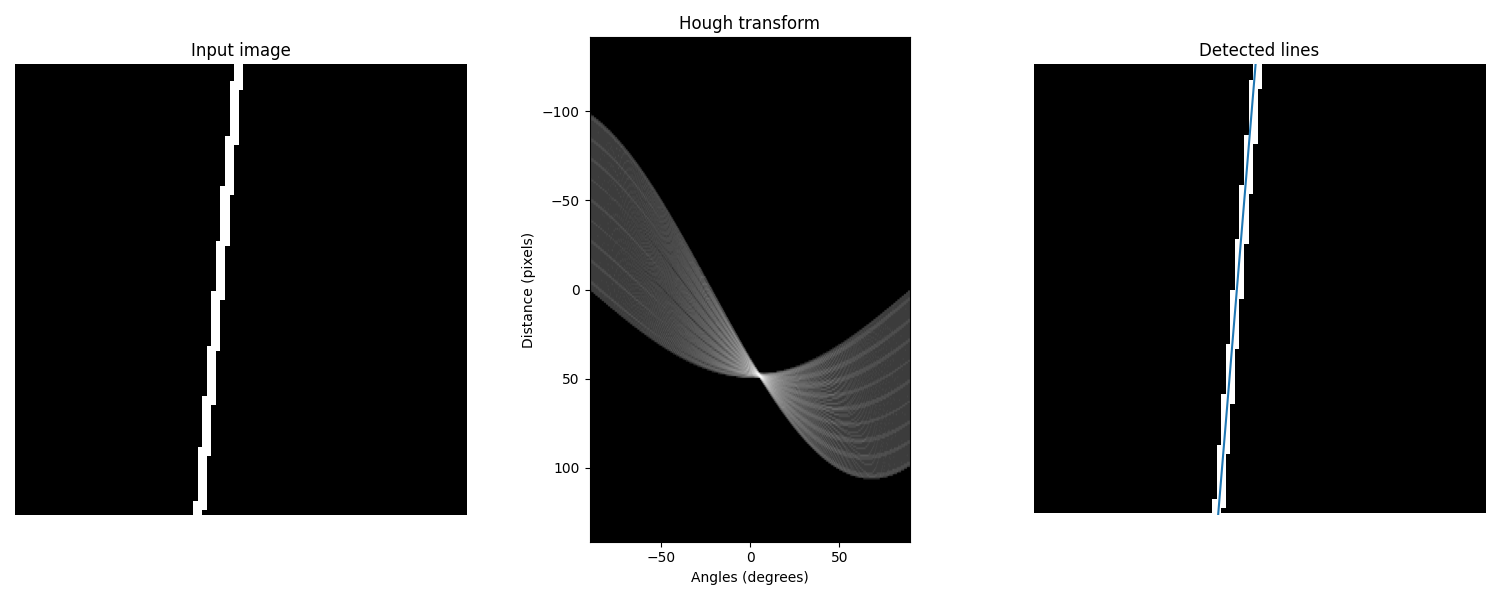
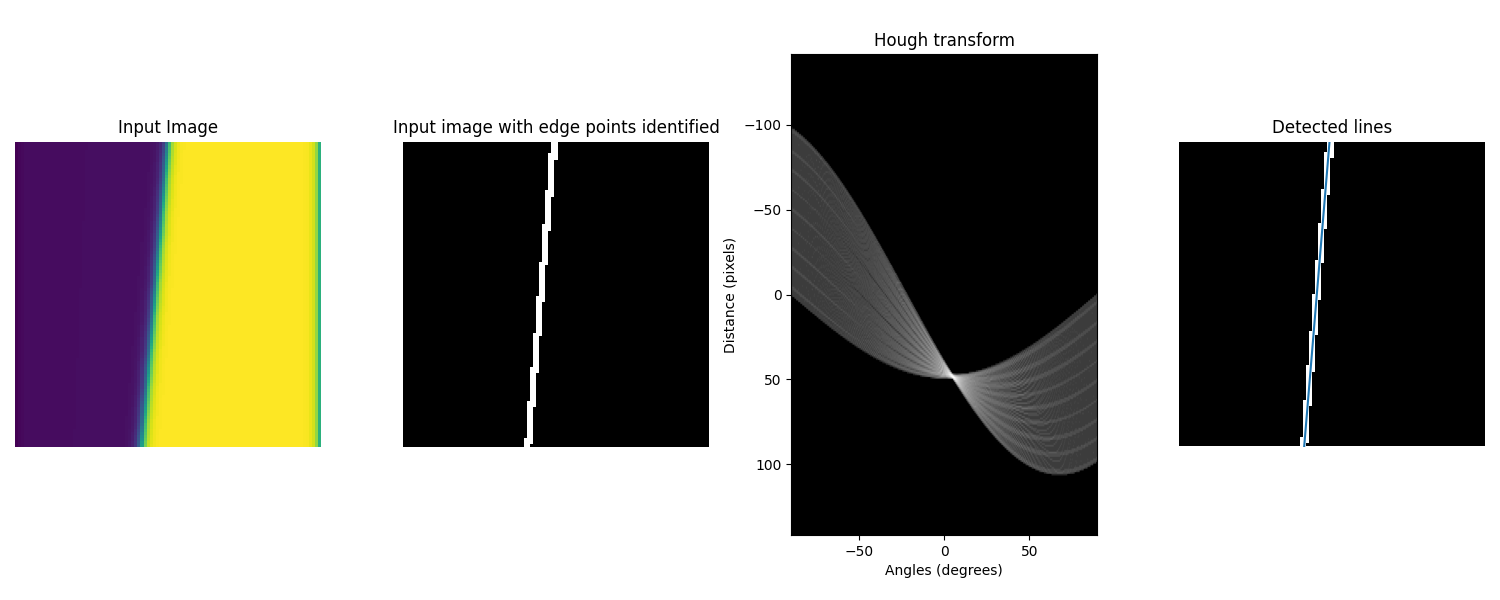
fig

diff --git a/hugh_transform_line_detection.py b/hugh_transform_line_detection.py
@@ -52,32 +52,37 @@ def main():
 
     angles = np.linspace(-np.pi/2, np.pi/2,720, endpoint=False)
     h,theta, d = hough_line(array, theta= angles)
-    fig, axes = plt.subplots(1,3,figsize = (15,6))
+    fig, axes = plt.subplots(1,4,figsize = (15,6))
     ax = axes.ravel()
-    ax[0].imshow(array, cmap=cm.gray)
-    ax[0].set_title('Input image')
+
+    ax[0].imshow(array1)
+    ax[0].set_title("Input Image")
     ax[0].set_axis_off()
+
+    ax[1].imshow(array, cmap=cm.gray)
+    ax[1].set_title('Input image with edge points identified')
+    ax[1].set_axis_off()
 
     angle_step = 0.5 * np.diff(theta).mean()
     d_step = 0.5 * np.diff(d).mean()
     bounds = [np.rad2deg(theta[0] - angle_step),
               np.rad2deg(theta[-1] + angle_step),
               d[-1] + d_step, d[0] - d_step]
-    ax[1].imshow(np.log(1 + h), extent=bounds, cmap=cm.gray, aspect=1 / 1.5)
-    ax[1].set_title('Hough transform')
-    ax[1].set_xlabel('Angles (degrees)')
-    ax[1].set_ylabel('Distance (pixels)')
-    ax[1].axis('image')
+    ax[2].imshow(np.log(1 + h), extent=bounds, cmap=cm.gray, aspect=1 / 1.5)
+    ax[2].set_title('Hough transform')
+    ax[2].set_xlabel('Angles (degrees)')
+    ax[2].set_ylabel('Distance (pixels)')
+    ax[2].axis('image')
 
 
-    ax[2].imshow(array, cmap=cm.gray)
-    ax[2].set_ylim((array.shape[0], 0))
-    ax[2].set_axis_off()
-    ax[2].set_title('Detected lines')
+    ax[3].imshow(array, cmap=cm.gray)
+    ax[3].set_ylim((array.shape[0], 0))
+    ax[3].set_axis_off()
+    ax[3].set_title('Detected lines')
 
     for _, angle, dist in zip(*hough_line_peaks(h, theta, d)):
         (x0, y0) = dist * np.array([np.cos(angle), np.sin(angle)])
-        ax[2].axline((x0, y0), slope=np.tan(angle + np.pi/2))
+        ax[3].axline((x0, y0), slope=np.tan(angle + np.pi/2))
     plt.tight_layout()
     plt.show()
 
